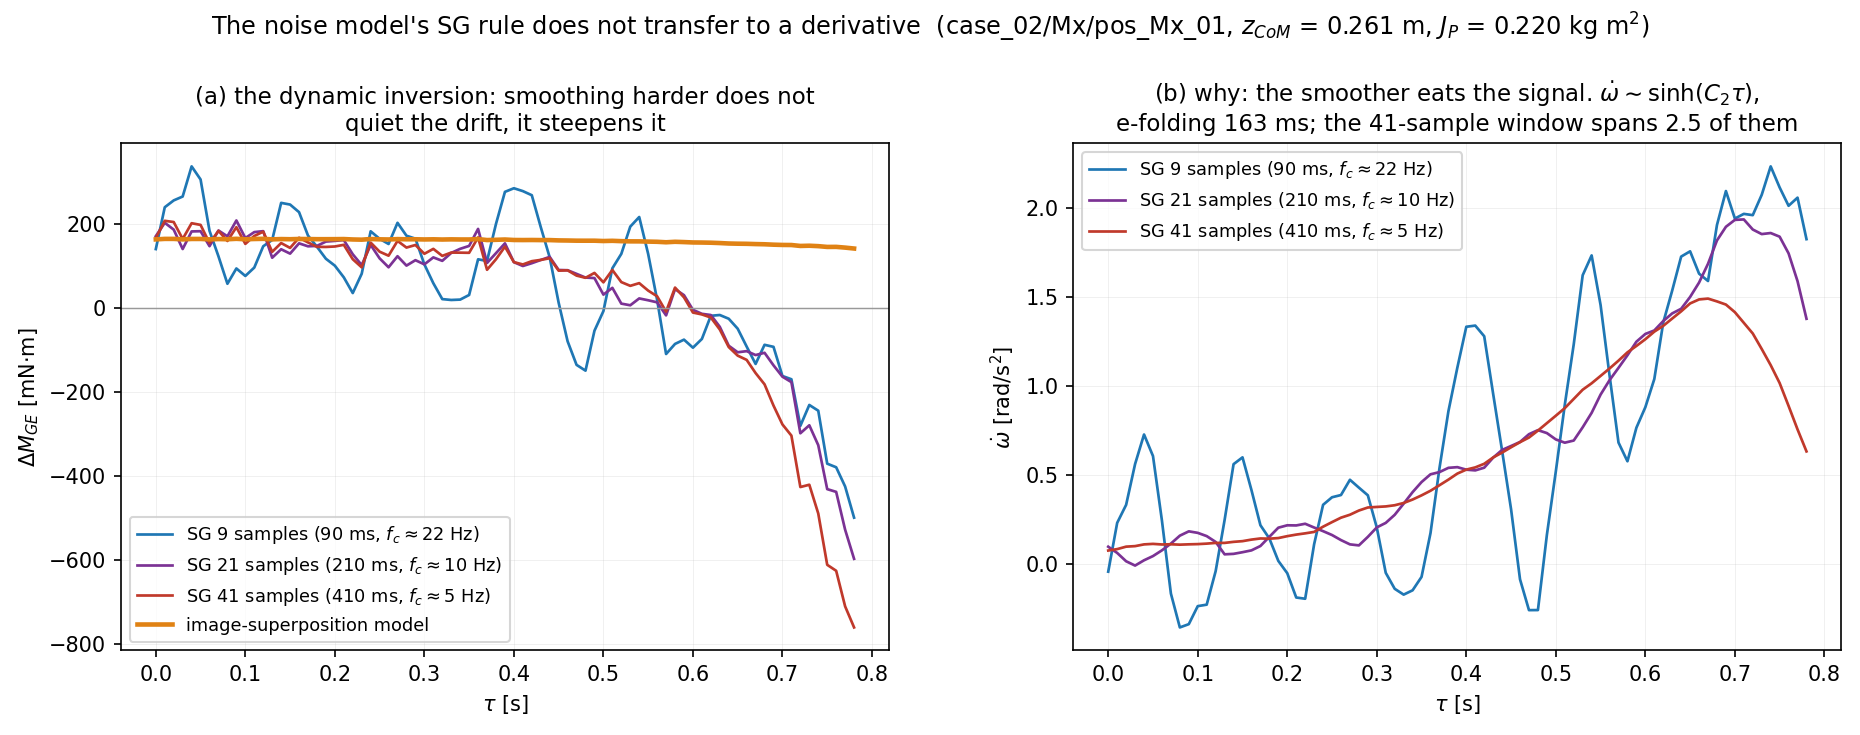
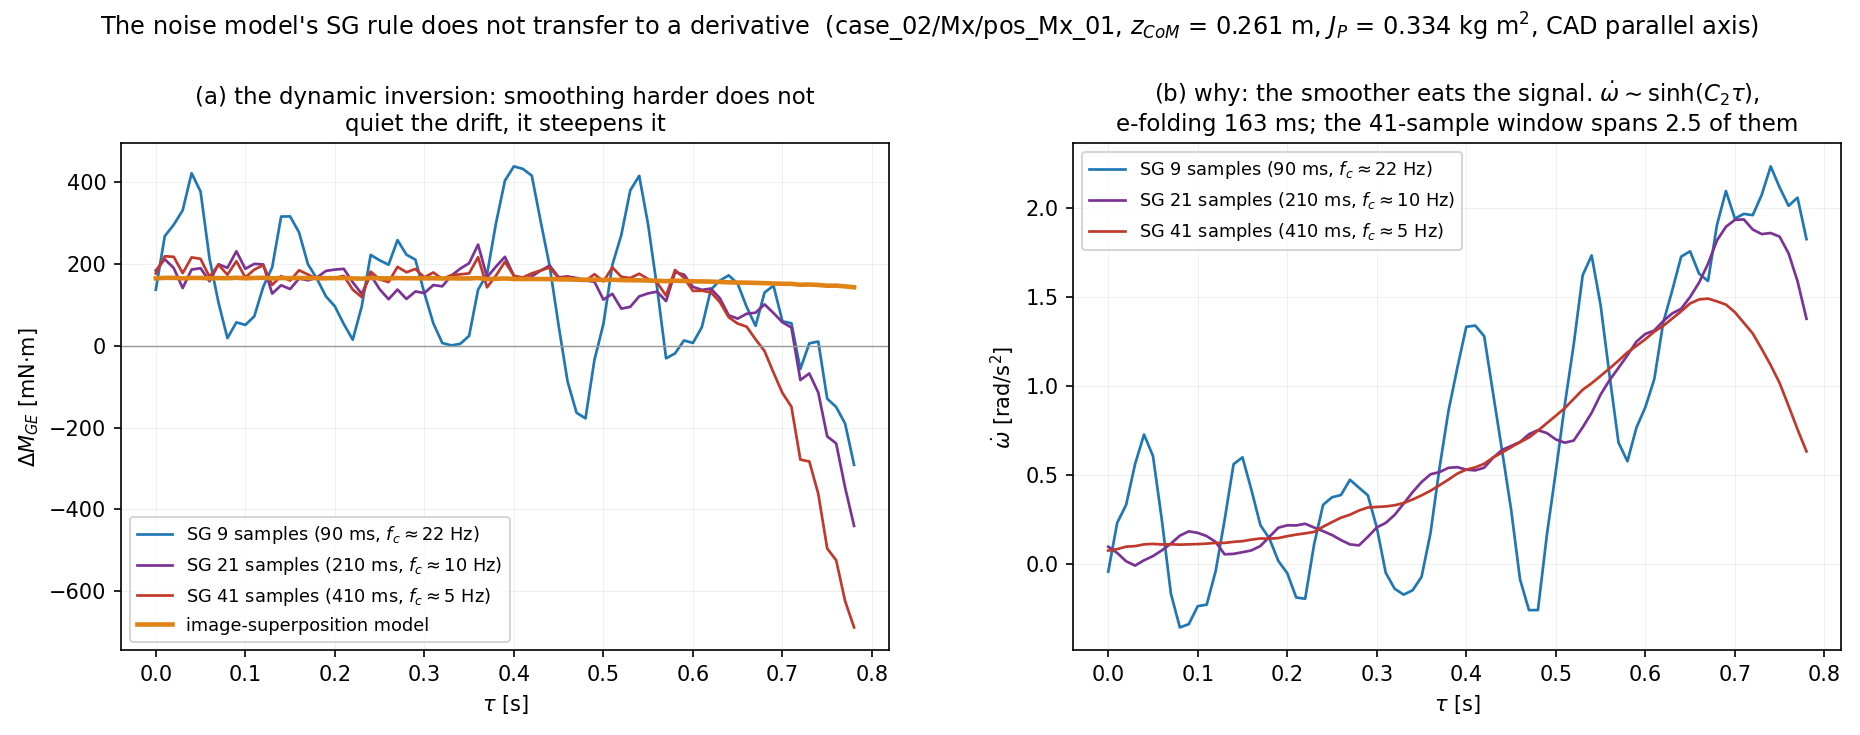
Redraw the SG overlay with the CAD parallel-axis J_P
Adds --jp-mode to the overlay script and defaults it to 'parallel',
matching the batch path: J_P = J_COM + m(z^2 + l_p^2) = 0.334 kg m^2
rather than the identity value W z/C2^2 = 0.220, which sits below the
rigid-body floor m(z^2 + l_p^2) = 0.283.  Slopes become -42.4 /
-53.2 / -89.7 mN.m/deg at SG 9 / 21 / 41, so the conclusion is
unchanged: harder denoising steepens the drift, and the omega_dot
attenuation behind it is identical (2.23 -> 1.49 rad/s^2), being a
property of the differentiator rather than of the inertia.

Claude-Session: https://claude.ai/code/session_01BM6bcsm1ZtLtgegEeuFDVS

diff --git a/analysis/ge_savgol_overlay.py b/analysis/ge_savgol_overlay.py
@@ -49,7 +49,7 @@ from utils import math_tools                              # noqa: E402
 from error_budget import ge_moment, LP                    # noqa: E402
 from analysis.rate_derivative import omega_dot            # noqa: E402
 from analysis.ge_dynamics_check import (                  # noqa: E402
-    MASS_KG, G, OFF_SIGN, OFF_MM)
+    MASS_KG, G, OFF_SIGN, OFF_MM, j_parallel)
 
 WINDOWS = [9, 21, 41]
 COLORS = ['#1f77b4', '#7b3294', '#c0392b']
@@ -61,6 +61,11 @@ def main():
     p.add_argument('--dir', default='DataSet/exp/case_02/Mx')
     p.add_argument('--bag', default=None)
     p.add_argument('--z-com', type=float, default=0.261)
+    p.add_argument('--jp-mode', choices=['parallel', 'identity'],
+                   default='parallel',
+                   help="parallel: J_COM + m(z^2 + l_p^2), the CAD "
+                        "parallel-axis value the batch uses; identity: "
+                        "W z / C2^2, which sits below the rigid-body floor")
     a_ = p.parse_args()
 
     d = Path(a_.dir)
@@ -85,7 +90,8 @@ def main():
     lp = (piv['pivot_abs'] * 1e-3 if not np.isnan(piv['pivot_abs'])
           else LP[axis])
     arm = lp + s * off_truth
-    j_p = W * a_.z_com / c2 ** 2
+    j_p = (j_parallel(axis, a_.z_com, MASS_KG[case])
+           if a_.jp_mode == 'parallel' else W * a_.z_com / c2 ** 2)
 
     sig = cvp.prepare_signals(bag, axis)
     roll, pitch = math_tools.quaternion_to_euler_vectorized(
@@ -113,7 +119,10 @@ def main():
 
     print(f"\n  {case}/{axname}/{name}:  C2 = {c2:.3f} rad/s, "
           f"1/C2 = {1e3/c2:.0f} ms,  T_s = {1e3*dt:.1f} ms,  "
-          f"window {len(tau)} samples / {tau[-1]:.2f} s\n")
+          f"window {len(tau)} samples / {tau[-1]:.2f} s")
+    print(f"  J_P = {j_p:.4f} kg m^2 ({a_.jp_mode});  for reference: "
+          f"parallel axis {j_parallel(axis, a_.z_com, MASS_KG[case]):.4f}, "
+          f"identity W z/C2^2 {W*a_.z_com/c2**2:.4f}\n")
     print(f"  {'w':>4}{'[ms]':>8}{'e-fold':>9}{'f_c~[Hz]':>10}"
           f"{'|om_dot|max':>13}{'slope':>10}{'at phi=0':>10}")
     for w, c in zip(WINDOWS, COLORS):
@@ -148,10 +157,13 @@ def main():
     a2.legend(fontsize=8.5, loc='upper left')
     a2.grid(alpha=0.22, lw=0.4)
 
+    jp_note = ('CAD parallel axis' if a_.jp_mode == 'parallel'
+               else r'from $Wz/C_2^2$')
     fig.suptitle('The noise model\'s SG rule does not transfer to a '
                  f'derivative  ({case}/{axname}/{name}, '
                  rf'$z_{{CoM}}$ = {a_.z_com:.3f} m, '
-                 rf'$J_P$ = {j_p:.3f} kg m$^2$)', fontsize=11.5, y=0.985)
+                 rf'$J_P$ = {j_p:.3f} kg m$^2$, {jp_note})',
+                 fontsize=11.5, y=0.985)
     fig.savefig(a_.out, dpi=150)
     print(f"\n  wrote {a_.out}\n")
     return 0
